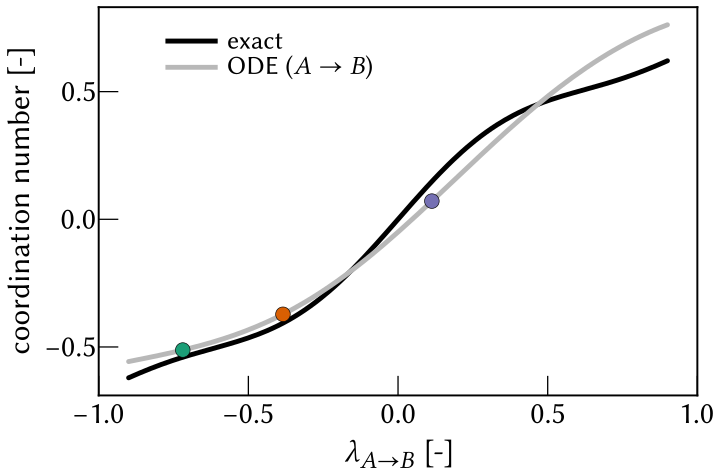
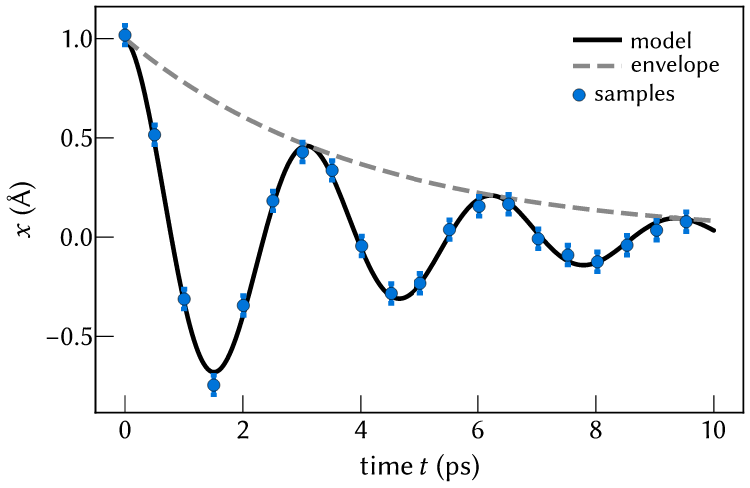
README: a plain paper figure, a calmer 3D demo, and that all of it is live
The figure is random data in a matplotlib paper style (examples/figure.py);
the protein turns less, keeps its sticks, and goes from lit to flat shading
with less fog. Image links are absolute, so PyPI shows them too.

diff --git a/examples/figure.py b/examples/figure.py
@@ -1,0 +1,21 @@
+"""The README's figure: a damped oscillation and noisy samples, as a paper figure.
+
+    python examples/figure.py       # figure.png
+"""
+import numpy as np
+from llandau import subplots
+
+rng = np.random.default_rng(1)
+t = np.linspace(0, 10, 300)
+signal = np.exp(-t / 4) * np.cos(2 * t)
+ts = t[::15]
+samples = np.exp(-ts / 4) * np.cos(2 * ts) + rng.normal(0, 0.05, len(ts))
+
+fig, ax = subplots(figsize=(3.4, 2.2))
+ax.plot(t, signal, color="k", label="model")
+ax.plot(t, np.exp(-t / 4), color="#888888", ls="--", label="envelope")
+ax.errorbar(ts, samples, yerr=0.05, fmt="o", ms=4, color="C0", capsize=2, label="samples")
+ax.set_xlabel("time $t$ (ps)")
+ax.set_ylabel("$x$ (Å)")
+ax.legend()
+fig.savefig("figure.png", dpi=220)

diff --git a/README.md b/README.md
@@ -2,8 +2,9 @@
 
 Scientific slides drawn live, with interactive 3D trajectories inside them. A deck is
 written like a [manim](https://www.manim.community) scene and plays straight from the
-code (wgpu): no videos, no render step, and stepping back or scrubbing is instant. The
-same plots save as paper figures.
+code (wgpu): no videos, no render step. Everything on screen is live while you present:
+step back, scrub, turn a molecule, change its rendering. The same plots save as paper
+figures.
 
 ```
 pip install llandau            # macOS and Linux wheels; text needs the typst CLI
@@ -11,7 +12,7 @@ pip install llandau            # macOS and Linux wheels; text needs the typst CL
 
 ## A deck
 
-![a deck playing: a plot drawing itself, a formula being written, a histogram fading in](docs/slides.gif)
+![a deck playing: a plot drawing itself, a formula being written, a histogram fading in](https://raw.githubusercontent.com/svandenhaute/llandau/main/docs/slides.gif)
 
 ```python
 from llandau import *
@@ -28,12 +29,13 @@ class Results(Deck):
 SLIDES = order(Results)
 ```
 
-`llandau play examples/slides.py` presents it (arrows step, F full screen, the wheel scrubs);
-`llandau pdf` and `llandau png` export one page per step.
+`llandau play examples/slides.py` presents it: the arrows step forward and back, the wheel
+scrubs through every animation, F goes full screen. `llandau pdf` and `llandau png` export one
+page per step.
 
 ## 3D trajectories
 
-![trp-cage's NMR models: backbone tube, trails, side chains as spheres with the molecular surface, flat shading colored by deviation](docs/protein.gif)
+![trp-cage's NMR models playing: backbone tube, side chains and trails, lit and then in flat shading](https://raw.githubusercontent.com/svandenhaute/llandau/main/docs/protein.gif)
 
 ```python
 viewer = Viewer().load(positions, numbers, roles=roles)    # (frames, atoms, 3), (atoms,)
@@ -43,20 +45,24 @@ viewer.color_by("deviation", np.linalg.norm(positions - positions[-1], axis=-1))
 explore(viewer, plots={"rmsd": rmsd}, t=t)                 # a window; ? shows every key
 ```
 
-The explorer's R key records what you do into an MP4. A deck shows the same viewer live on
-chosen steps, with `self.live("name", R.body.right, camera={"azimuth": 30}, frame=60)`:
+The window is interactive: drag to turn, scroll through the frames, and every setting has a
+key (lit or flat shading, protein or atoms, layers, a light or dark theme); R records what you
+do into an MP4. A deck shows the same viewer live inside a slide, just as interactive, with
+`self.live("name", R.body.right, camera={"azimuth": 30}, frame=60)`:
 `llandau play examples/live_demo.py`.
 
 ## Paper figures
 
-![a figure saved by llandau: two curves with highlighted points and a legend](docs/figure.png)
+![a figure saved by llandau: a damped oscillation, its envelope and noisy samples with error bars](https://raw.githubusercontent.com/svandenhaute/llandau/main/docs/figure.png)
 
 ```python
-fig, ax = subplots(figsize=(3.0, 2.0))                      # inches, points, Typst math
-ax.plot(lam, exact, color="k", label="exact")
-ax.scatter(lam[i], ode[i], s=20, color="C1", zorder=50)
-ax.set_xlabel("$lambda_(A -> B)$")
-fig.savefig("ode.pdf")                                      # or .svg, .png
+fig, ax = subplots(figsize=(3.4, 2.2))                      # inches, points, Typst math
+ax.plot(t, signal, color="k", label="model")
+ax.plot(t, envelope, color="#888888", ls="--", label="envelope")
+ax.errorbar(ts, samples, yerr=0.05, fmt="o", ms=4, capsize=2, label="samples")
+ax.set_xlabel("time $t$ (ps)")
+ax.legend()
+fig.savefig("figure.pdf")                                   # or .svg, .png
 ```
 
 `examples/` has the decks and figures above; the modules' docstrings document the rest
